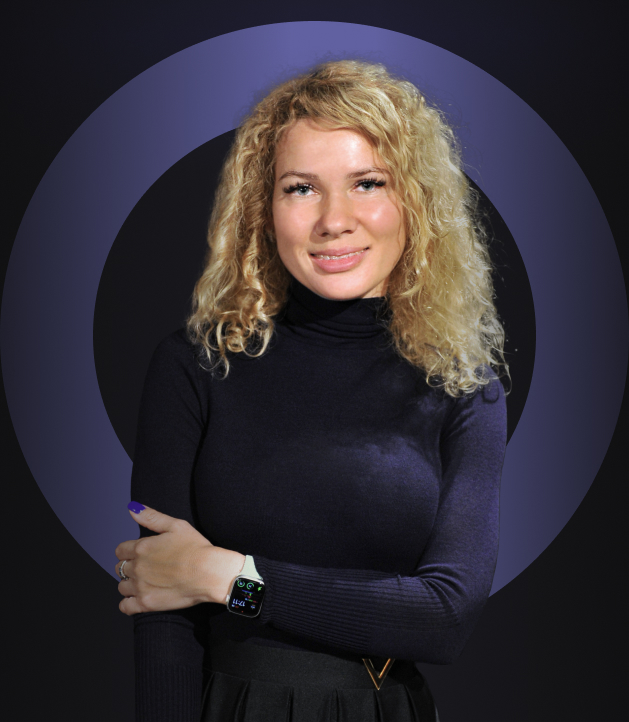
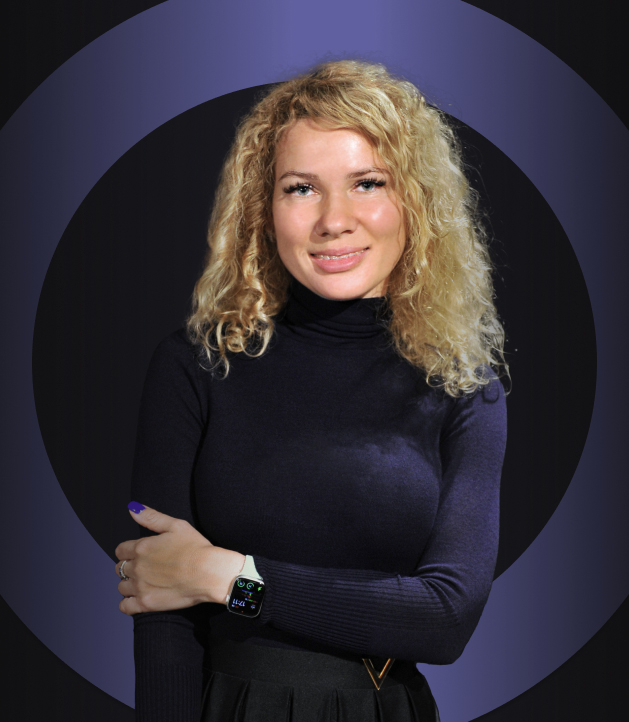
new

diff --git a/src/js/app.js b/src/js/app.js
@@ -175,7 +175,6 @@ popupClose.addEventListener("click", () => {
 window.addEventListener("scroll", () => {
 	setTimeout(() => {
 		const y = window.scrollY;
-		console.log(y);
 		if (window.matchMedia("(min-width:320px)").matches && window.matchMedia("(max-width:767px)").matches) {
 			if (y >= 0 && y <= 100) {
 				document.querySelector(".ring").style.left = `${document.querySelector(".first-screen .content").getBoundingClientRect().left + 54}px`;
@@ -289,7 +288,7 @@ window.addEventListener("scroll", () => {
 			}
 		}
 
-		if (window.matchMedia("(min-width:1024px)").matches) {
+		if (window.matchMedia("(min-width:1024px)").matches && window.matchMedia("(max-width:1439px)").matches) {
 			if (y > 100 && y <= 500) {
 				document.querySelector(".ring").style.left = `${document.querySelector(".first-screen .content").getBoundingClientRect().left + 454}px`;
 				document.querySelector(".ring").style.top = `195px`;
@@ -366,55 +365,46 @@ window.addEventListener("scroll", () => {
 				document.querySelector(".ring").style.top = `2795px`;
 				document.querySelector(".ring").style.width = `391px`;
 				document.querySelector(".ring").style.height = `391px`;
+				document.querySelector(".speaker-ring").classList.remove("show");
 			}
-			if (y > 2600 && y <= 4000) {
-				document.querySelector(".ring").style.left = `${document.querySelector(".first-screen .content").getBoundingClientRect().left + 400}px`;
+			if (y > 2600 && y <= 4800) {
+				document.querySelector(".ring").style.left = `${document.querySelector(".first-screen .content").getBoundingClientRect().left + 250}px`;
 				document.querySelector(".ring").style.top = `3895px`;
 				document.querySelector(".ring").style.width = `569px`;
 				document.querySelector(".ring").style.height = `569px`;
+				document.querySelector(".ring").style.opacity = `1`;
 			}
-			if (y > 4200 && y <= 4700) {
-				document.querySelector(".ring").style.left = `${document.querySelector(".first-screen .content").getBoundingClientRect().left}px`;
-				document.querySelector(".ring").style.top = `5180px`;
-				document.querySelector(".ring").style.width = `620px`;
-				document.querySelector(".ring").style.height = `620px`;
+			if (y > 4600 && y <= 5300) {
+				document.querySelector(".speaker-ring").classList.add("show");
+				document.querySelector(".speaker-ring").style.width = `780px`;
+				document.querySelector(".speaker-ring").style.height = `780px`;
+				document.querySelector(".speaker-ring").style.top = `-28px`;
+				document.querySelector(".speaker-ring").style.left = `-76px`;
 			}
-			if (y > 4700 && y <= 5700) {
-				document.querySelector(".ring").style.left = `${document.querySelector(".first-screen .content").getBoundingClientRect().left - 150}px`;
-				document.querySelector(".ring").style.top = `6300px`;
-				document.querySelector(".ring").style.width = `620px`;
-				document.querySelector(".ring").style.height = `620px`;
+			if (y > 5300 && y <= 5800) {
+				document.querySelector(".speaker-ring").style.top = `1600px`;
+				document.querySelector(".speaker-ring").style.left = `-76px`;
+				document.querySelector(".speaker-ring").style.width = `780px`;
+				document.querySelector(".speaker-ring").style.height = `780px`;
 			}
-			if (y > 5700 && y <= 6400) {
-				document.querySelector(".ring").style.left = `${document.querySelector(".first-screen .content").getBoundingClientRect().left + 300}px`;
-				document.querySelector(".ring").style.top = `7200px`;
-				document.querySelector(".ring").style.width = `544px`;
-				document.querySelector(".ring").style.height = `544px`;
+			if (y > 7300 && y <= 7700) {
+				document.querySelector(".speaker-ring").style.top = `2600px`;
+				document.querySelector(".speaker-ring").style.left = `800px`;
+				document.querySelector(".speaker-ring").style.width = `480px`;
+				document.querySelector(".speaker-ring").style.height = `480px`;
 			}
-			if (y > 6400 && y <= 7200) {
-				document.querySelector(".ring").style.left = `${document.querySelector(".first-screen .content").getBoundingClientRect().left + 700}px`;
-				document.querySelector(".ring").style.top = `7800px`;
-				document.querySelector(".ring").style.width = `442px`;
-				document.querySelector(".ring").style.height = `442px`;
+			if (y > 8200 && y <= 8600) {
+				document.querySelector(".speaker-ring").style.top = `3300px`;
+				document.querySelector(".speaker-ring").style.left = `1000px`;
+				document.querySelector(".speaker-ring").style.width = `480px`;
+				document.querySelector(".speaker-ring").style.height = `480px`;
 			}
-			if (y > 7200 && y <= 7800) {
-				document.querySelector(".ring").style.left = `${document.querySelector(".first-screen .content").getBoundingClientRect().left + 400}px`;
-				document.querySelector(".ring").style.top = `8300px`;
-				document.querySelector(".ring").style.width = `365px`;
-				document.querySelector(".ring").style.height = `365px`;
-			}
-			if (y > 7800 && y <= 8600) {
-				document.querySelector(".ring").style.left = `${document.querySelector(".first-screen .content").getBoundingClientRect().left + 800}px`;
-				document.querySelector(".ring").style.top = `8800px`;
-				document.querySelector(".ring").style.width = `494px`;
-				document.querySelector(".ring").style.height = `494px`;
-			}
-			if (y > 8600 && y <= 9200) {
-				document.querySelector(".ring").style.left = `${document.querySelector(".first-screen .content").getBoundingClientRect().left + 1000}px`;
-				document.querySelector(".ring").style.top = `9500px`;
-				document.querySelector(".ring").style.width = `447px`;
-				document.querySelector(".ring").style.height = `447px`;
-			}
+			// if (y > 8600 && y <= 9200) {
+			// 	document.querySelector(".ring").style.left = `${document.querySelector(".first-screen .content").getBoundingClientRect().left + 1000}px`;
+			// 	document.querySelector(".ring").style.top = `9500px`;
+			// 	document.querySelector(".ring").style.width = `447px`;
+			// 	document.querySelector(".ring").style.height = `447px`;
+			// }
 		}
 	}, 300);
 });

diff --git a/src/scss/blocks/9speaker.scss b/src/scss/blocks/9speaker.scss
@@ -50,9 +50,20 @@
 			height: 100%;
 			transform: scale(0.4);
 			transform-origin: center;
-			transition: transform 1s ease-out, left 1s ease-out, top 1s ease-out;
+			transition: transform 1s ease-out, left 1s ease-out, top 1s ease-out, width 1s ease-out, height 1s ease-out;
 			z-index: -1;
 			opacity: 0;
+
+			@media (min-width: $lg) {
+				position: absolute;
+				left: -76px;
+				top: -28px;
+				width: 780px;
+				height: 780px;
+				transform: scale(0);
+				transform-origin: center;
+				transition: transform 1s ease-out, left 1s ease-out, top 1s ease-out, width 1s ease-out, height 1s ease-out;
+			}
 
 			&__inner {
 				position: absolute;

diff --git a/src/scss/blocks/ring.scss b/src/scss/blocks/ring.scss
@@ -1,6 +1,5 @@
 .ring {
 	position: absolute;
-	// left: 0;
 	top: 500px;
 	width: 100%;
 	transform: scale(0);
